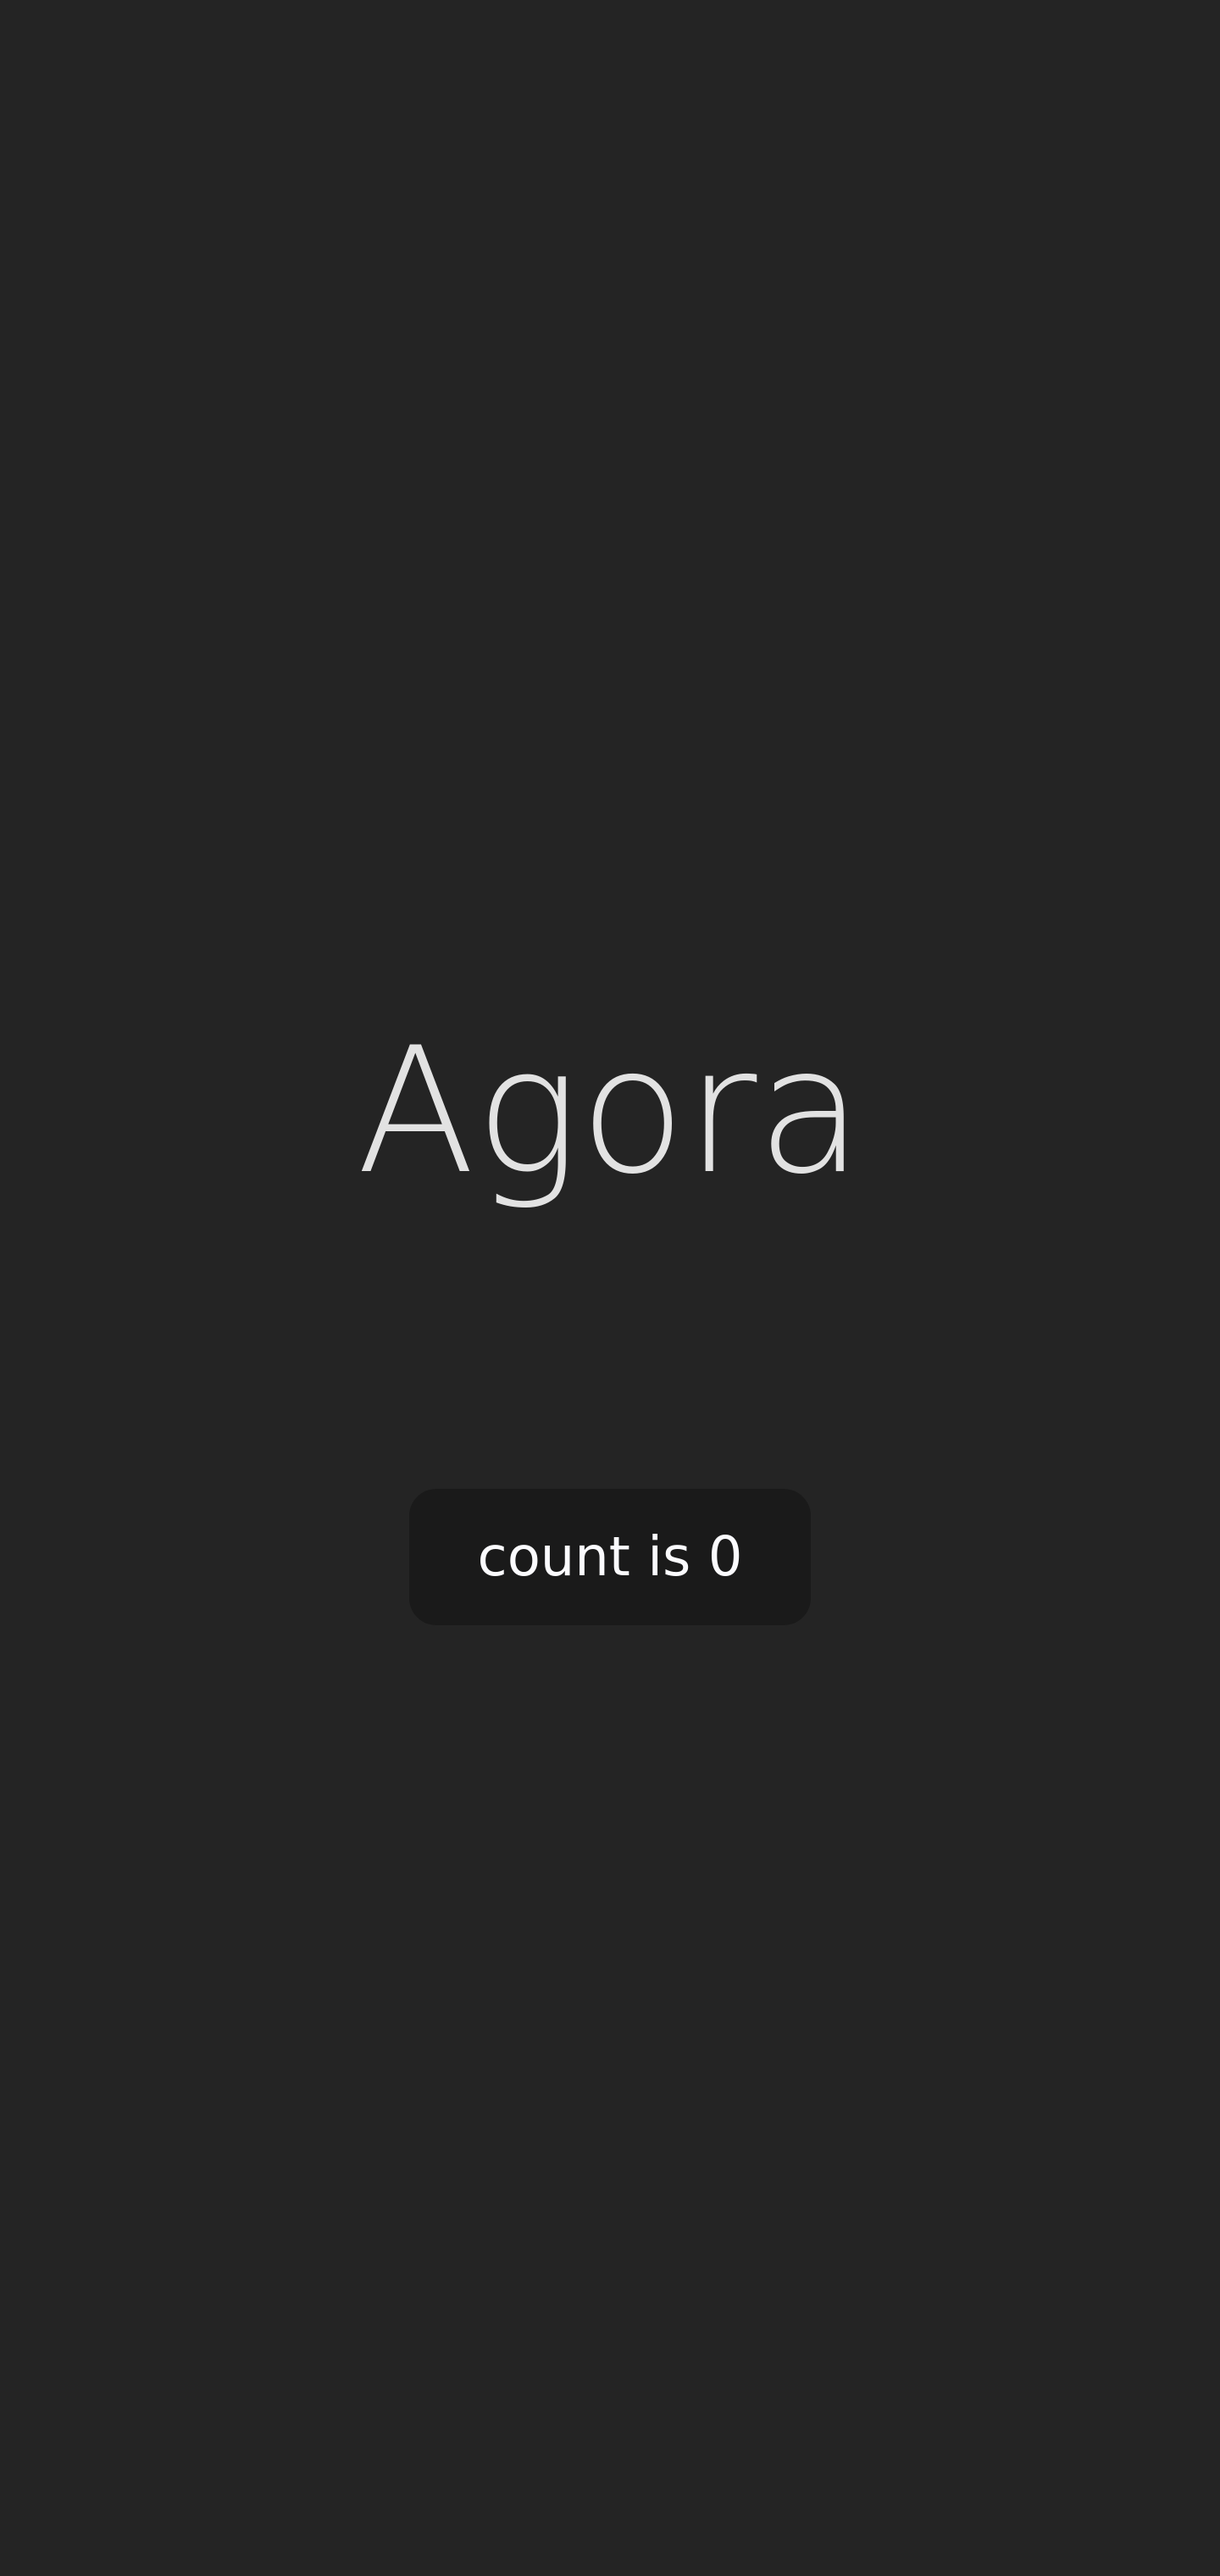
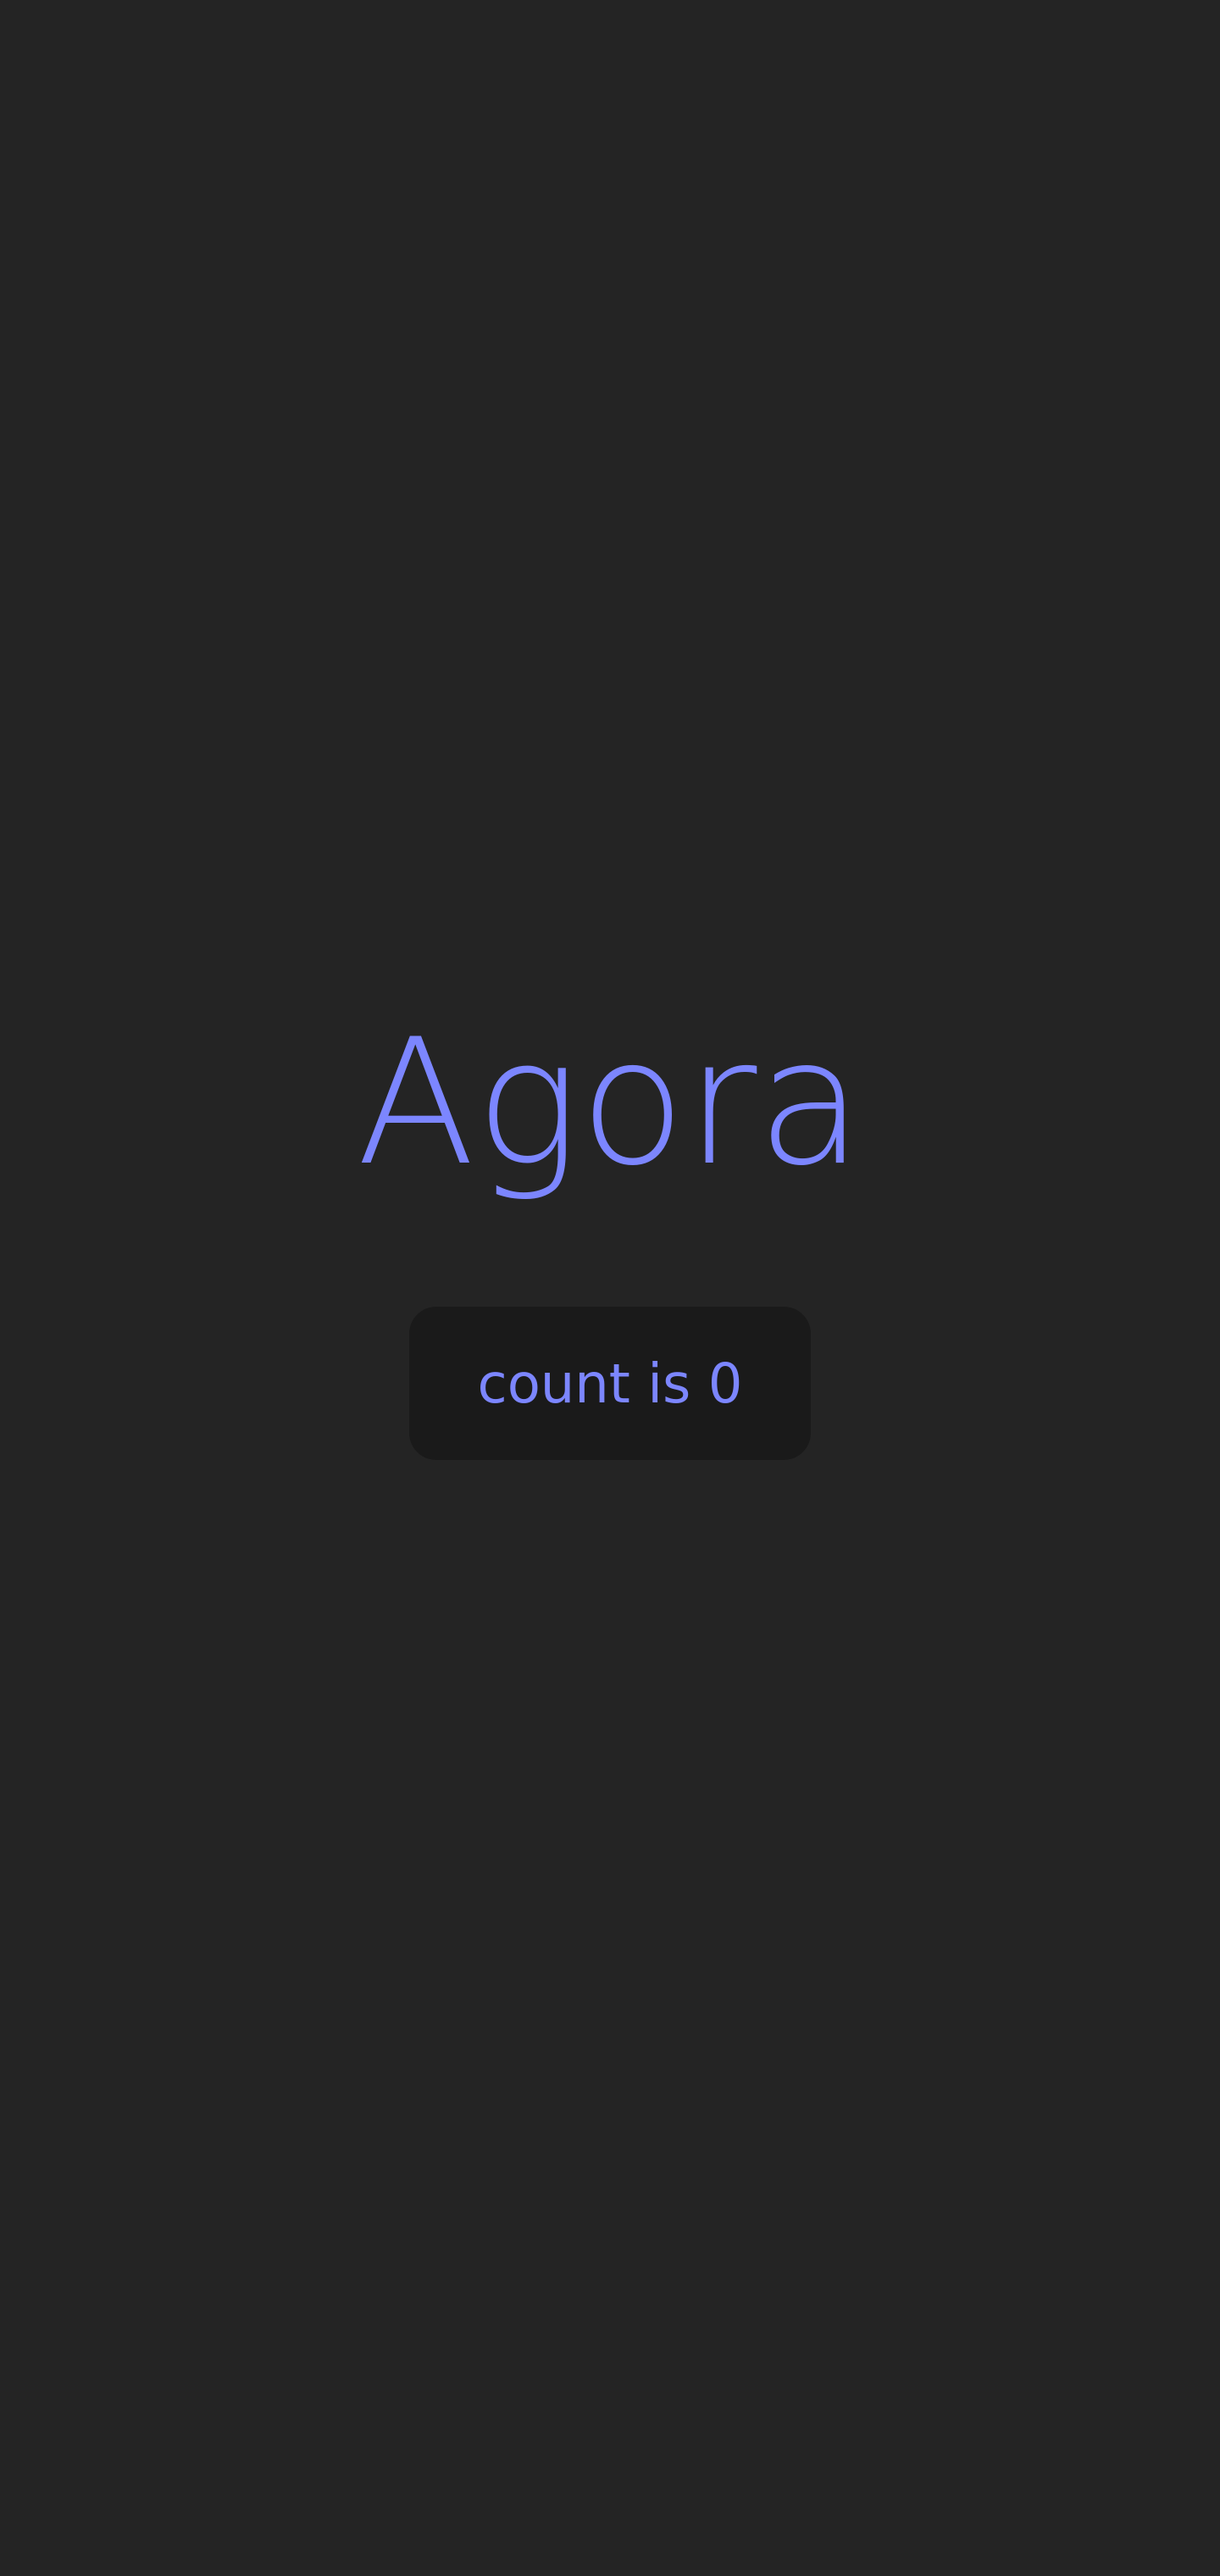
I added some improvements

diff --git a/templates/agora/ui-agora02/src/components/HelloWorld.vue b/templates/agora/ui-agora02/src/components/HelloWorld.vue
@@ -9,10 +9,10 @@ const count = ref(0)
 </script>
 
 <template>
-  <h3>{{ msg }}</h3>
+  <h3 class="text-indigo-400">{{ msg }}</h3>
 
   <div class="card">
-    <button type="button" @click="count++">count is {{ count }}</button>
+    <button class="text-indigo-400" type="button" @click="count++">count is {{ count }}</button>
   </div>
 
 </template>

diff --git a/templates/agora/ui-agora02/tailwind.config.js b/templates/agora/ui-agora02/tailwind.config.js
@@ -1,11 +1,7 @@
 import { defineConfig } from 'vite'
-import vue from '@vitejs/plugin-vue'
 import tailwindcss from '@tailwindcss/vite'
-
-// https://vite.dev/config/
 export default defineConfig({
   plugins: [
-    vue(),
     tailwindcss(),
   ],
 })

diff --git a/templates/agora/ui-agora02/src/style.css b/templates/agora/ui-agora02/src/style.css
@@ -1,3 +1,5 @@
+@import "tailwindcss";
+
 :root {
   font-family: sans-serif;
   line-height: 1.5;

diff --git a/templates/agora/ui-agora02/docs/1_SCAFFOLDING.md b/templates/agora/ui-agora02/docs/1_SCAFFOLDING.md
@@ -4,7 +4,76 @@
 npm create vite@latest
 cd ui-agora02/
 npm install
-npm run build
+```
+
+## add Tailwind 4
+
+```bash
+npm install tailwindcss @tailwindcss/vite
+```
+
+### setup of `tailwind.config.js` like this:
+
+```js
+import { defineConfig } from 'vite'
+import tailwindcss from '@tailwindcss/vite'
+export default defineConfig({
+  plugins: [
+    tailwindcss(),
+  ],
+})
+```
+
+### import Tailwind CSS
+
+Add `@import` into `/src/index.css` file like this:
+
+```css
+@import "tailwindcss";
+```
+
+At this point, it is necessary to edit file `vite.config.js` in the following manner:
+
+```js
+import { defineConfig } from 'vite'
+import vue from '@vitejs/plugin-vue'
+import tailwindcss from '@tailwindcss/vite'
+
+// https://vite.dev/config/
+export default defineConfig({
+  plugins: [
+    vue(),
+    tailwindcss(),
+  ],
+})
+```
+
+## install Axios
+
+```bash
+npm i axios
+```
+
+## install the icons `lucide-vue-next`
+
+```bash
+npm i lucide-vue-next
+```
+
+## check the licenses of the packages used
+
+```bash
 license-report --output=csv > licenses_report.csv
+```
+
+## build
+
+```bash
+npm run build
+```
+
+Now it's time to fix the permissions:
+
+```bash
 chown --recursive developer_username:apache .
 ```
